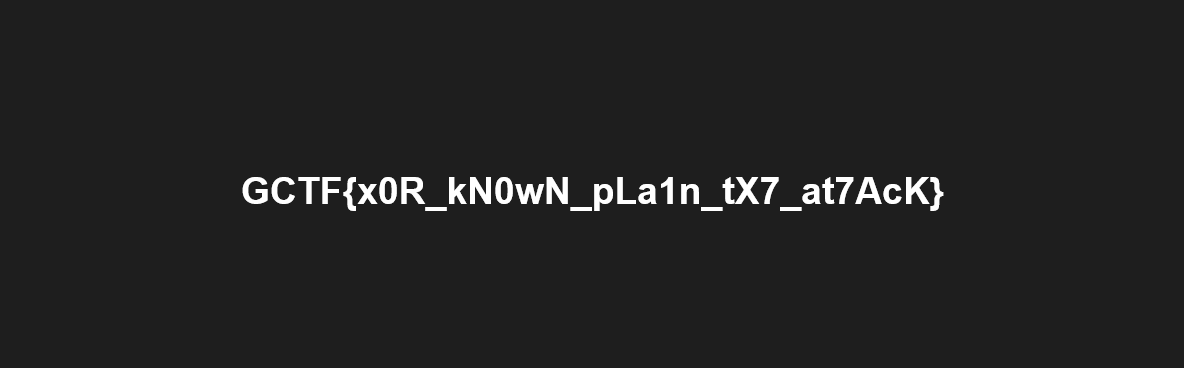
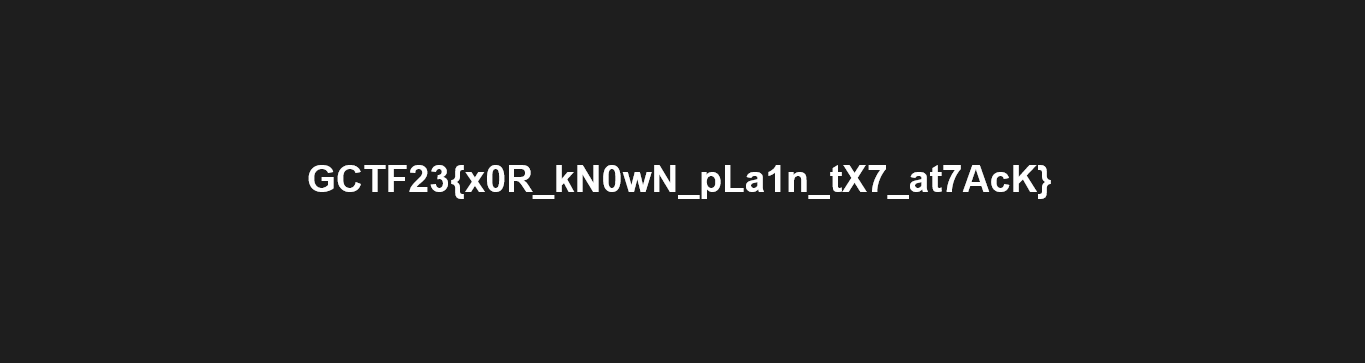
changed flags for XORing & Double Prot

Changed region(s): [[0.1875, 0.4545, 0.8125, 0.5758]]

diff --git a/crypto/XORing Through/README.md b/crypto/XORing Through/README.md
@@ -18,4 +18,4 @@ None
 None
 
 ## Flags
-- `GCTF{x0R_kN0wN_pLa1n_tX7_at7AcK}` (static)
+- `GCTF23{x0R_kN0wN_pLa1n_tX7_at7AcK}` (static)

diff --git a/crypto/Double Protection/README.md b/crypto/Double Protection/README.md
@@ -19,4 +19,4 @@ None
 
 
 ## Flags
-- `GCTF{d0Ubl3_eNcRyp71on_1sNt_g0oD}` (static)
+- `GCTF23{d0Ubl3_eNcRyp71on_1sNt_g0oD}` (static)
